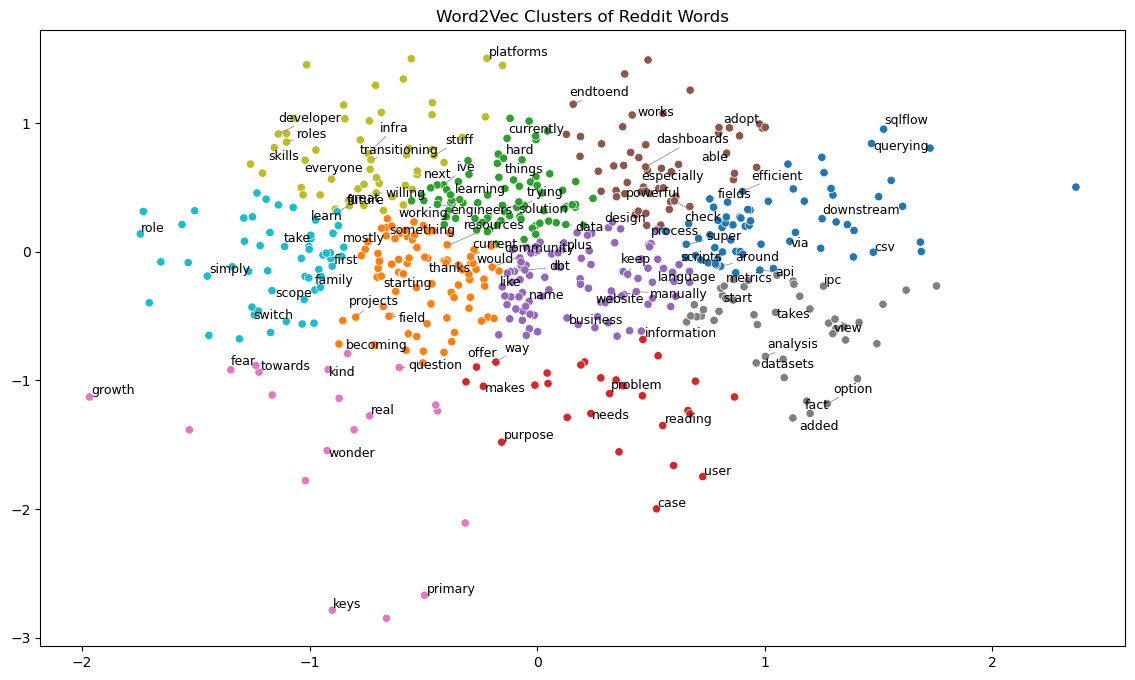
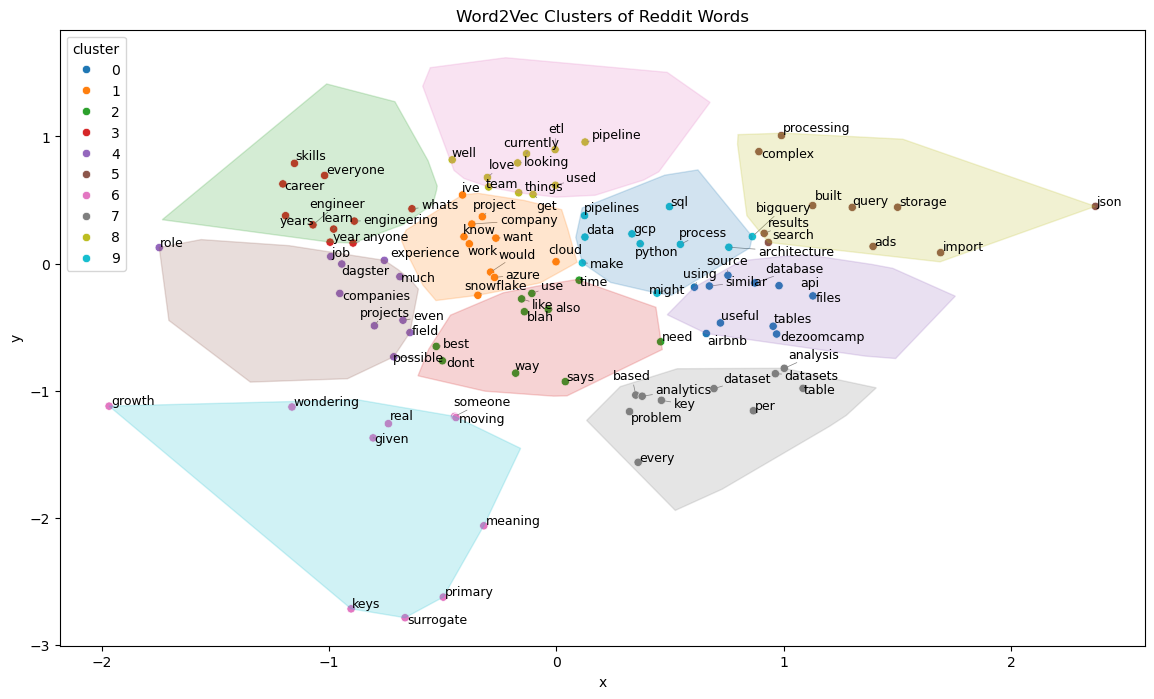
create clusters of top 10 most important, unique words per cluster

diff --git a/semantic_clustering/w2v_analysis.py b/semantic_clustering/w2v_analysis.py
@@ -1,3 +1,5 @@
+import os 
+os.environ['OMP_NUM_THREADS'] = '3' # set the OP NUM THREADS env variable to 3 to avoid the potential memory leak caused my using KMeans on a Windows Intel machine
 import pandas as pd 
 import matplotlib.pyplot as plt 
 import seaborn as sns 
@@ -5,11 +7,12 @@ import re
 from gensim.models import Word2Vec
 from sklearn.cluster import KMeans 
 from sklearn.decomposition import PCA
+from sklearn.feature_extraction.text import TfidfVectorizer
 from nltk.corpus import stopwords 
 import nltk
-import os 
 import sys 
 from adjustText import adjust_text
+from scipy.spatial import ConvexHull
 
 '''
 This program uses Word2Vec to get similar clusters of words, and measures each cluster's average score.
@@ -38,6 +41,22 @@ def preprocess(text):
 
 # get all preprocessed tokens for each post that are not null 
 combined_df['tokens'] = combined_df['body'].dropna().apply(preprocess)
+
+# for TF-IDF vectorization, rejoin the tokens into strings 
+combined_df['processed_body'] = combined_df['tokens'].apply(lambda tokens: " ".join(tokens))
+
+# fit the TF-IDF vectorizer to the post bodies to extract the most important words based on their frequency across documents, while down-weighting common words
+tfidf_vectorizer = TfidfVectorizer()
+tfidf_matrix = tfidf_vectorizer.fit_transform(combined_df['processed_body'])
+tfidf_df = pd.DataFrame(tfidf_matrix.toarray(), columns=tfidf_vectorizer.get_feature_names_out())
+
+# swtich the above df to a long formatted df so each row is a word with its tdidf score 
+tfidf_df_long = tfidf_df.stack().reset_index()
+tfidf_df_long.columns = ['post_num', 'word', 'tfidf']
+
+# find each word's avg TF-IDF 
+avg_tfidf_scores = tfidf_df_long.groupby('word')['tfidf'].mean().reset_index()
+avg_tfidf_scores.columns = ['word', 'avg_tfidf']
 
 # train the word2vec model 
 w2v_model = Word2Vec(
@@ -71,12 +90,21 @@ word_cluster_df = pd.DataFrame({
     "cluster": labels
 })
 
+# merge the above avg_tfidf_scores and the word cluster df on word to get each word's avg tfidf score for clustering 
+word_cluster_df = word_cluster_df.merge(avg_tfidf_scores, on='word', how='left')
+
+
 # filter for the top 10 words for each cluster
-top_words = word_cluster_df.groupby("cluster").apply(lambda df: df.sample(n=min(10, len(df)), random_state=42)).reset_index(drop=True)
+top_words = (word_cluster_df
+             .sort_values(by='avg_tfidf',ascending=False)
+             .groupby('cluster')
+             .head(10)
+             .reset_index(drop=True))
+
 
 # visualize the vectors 
 plt.figure(figsize=(14, 8))
-sns.scatterplot(x=reduced[:, 0], y=reduced[:, 1], hue=labels, palette='tab10', legend=False)
+sns.scatterplot(data=top_words, x='x', y='y', hue='cluster', palette='tab10', legend=True)
 
 texts = []
 
@@ -85,6 +113,27 @@ for _, row in top_words.iterrows():
 
 adjust_text(texts, arrowprops=dict(arrowstyle='-', color='gray', lw=0.5))
 
+# plot hull blocks around each cluster so they are easily distinguishable
+unique_clusters = top_words['cluster'].unique()
+colors = sns.color_palette('tab10', n_colors=len(unique_clusters))  # match colors to clusters
+
+for cluster_id, color in zip(unique_clusters, colors):
+    cluster_points = word_cluster_df[word_cluster_df['cluster'] == cluster_id][['x', 'y']].values
+    if len(cluster_points) >= 3:  # only draw a convex hull block if the cluster has at least 3 points/words
+        hull = ConvexHull(cluster_points)
+        hull_points = cluster_points[hull.vertices]
+        plt.fill(hull_points[:, 0], hull_points[:, 1], alpha=0.2, color=color, label=f"Cluster {cluster_id}")
+
 plt.title("Word2Vec Clusters of Reddit Words")
-os.makedirs("semantic_clustering", exist_ok=True)
 plt.savefig("semantic_clustering/word2vec_clusters.png", bbox_inches='tight')
+
+### - Based on the above clusters, compute the avg score and num of comments for each cluster based on if the cluster's words match a posts
+# store the cluster's scores in a list 
+cluster_scores = []
+
+for cluster_id in word_cluster_df['cluster'].unique():
+    words_in_cluster = word_cluster_df[word_cluster_df['cluster'] == cluster_id]['word'].tolist() # grab all words in each cluster
+
+    # build regex pattern to serach for any word from the cluster in each post body 
+    
+
